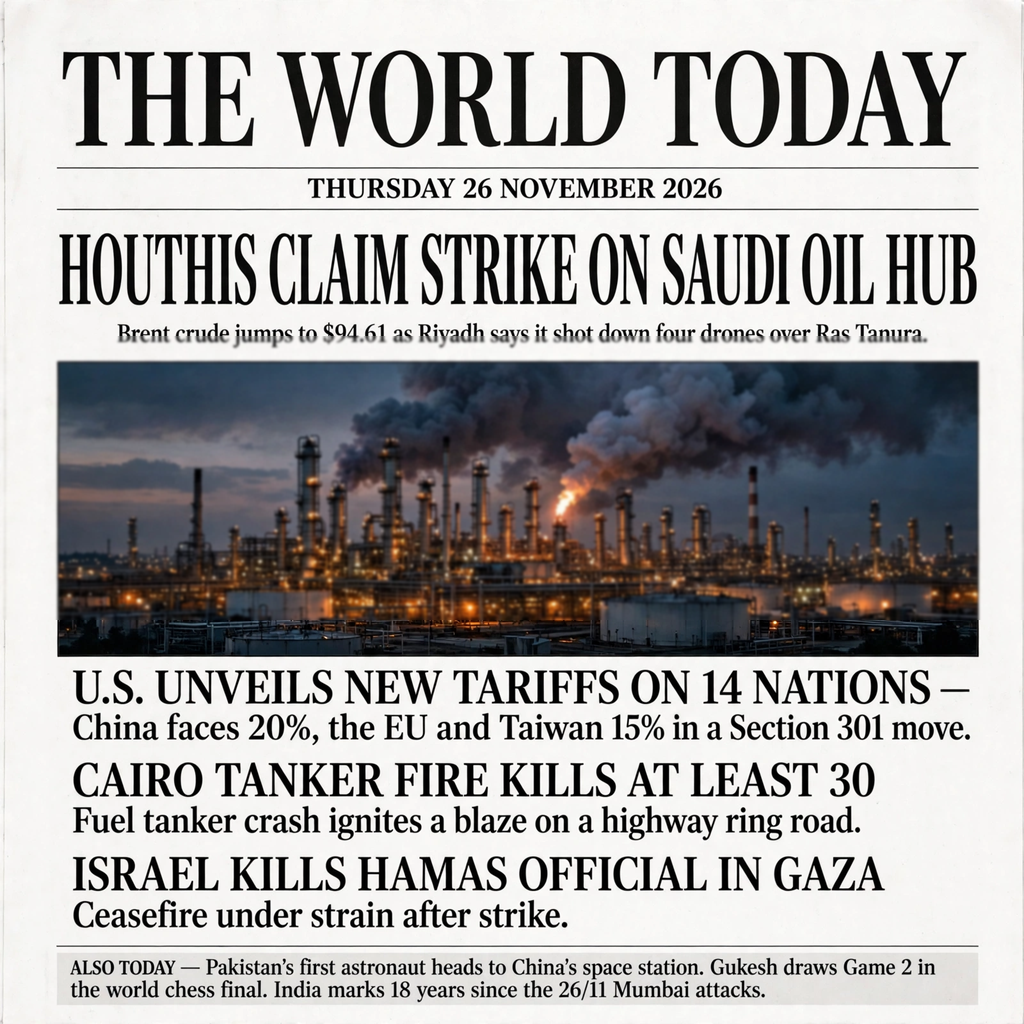
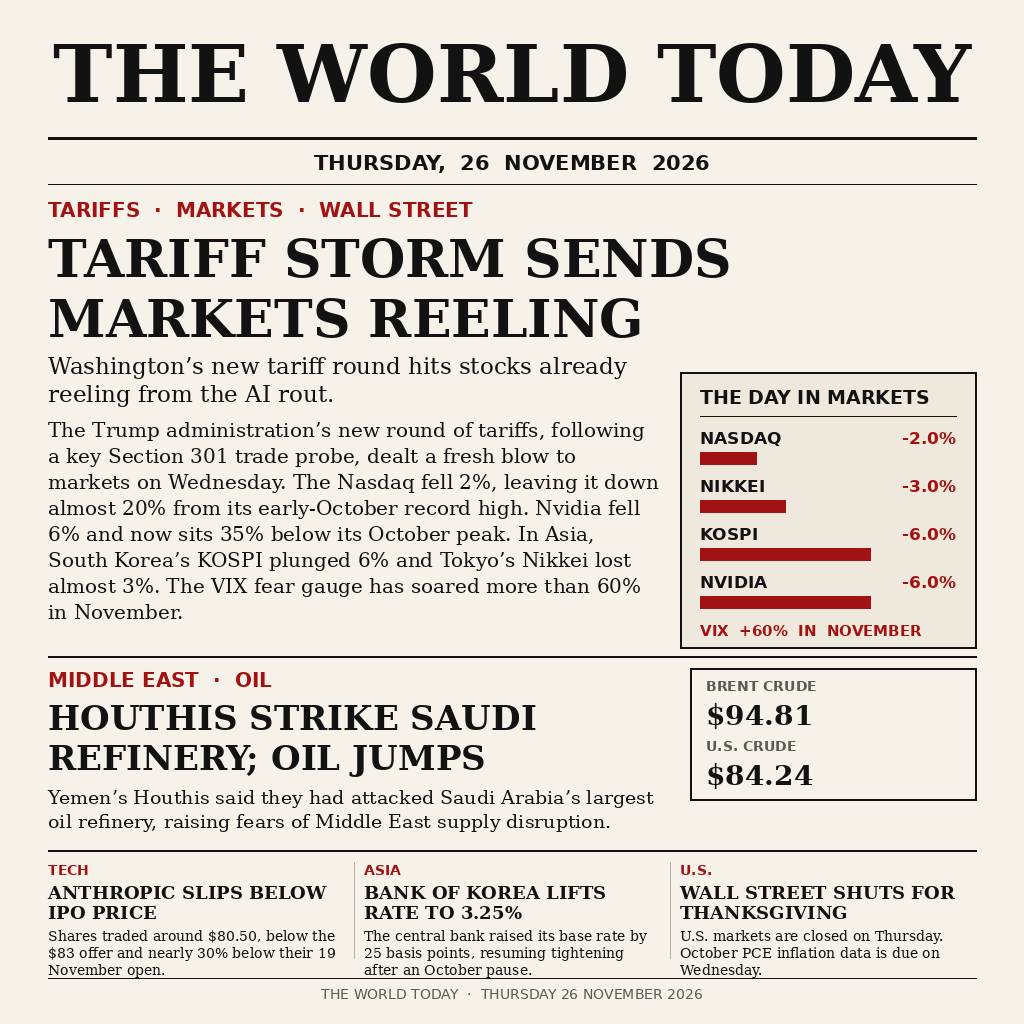
news-image-20261126 v2: The World Today — data-led front page (tariff storm lead)

diff --git a/main.ts b/main.ts
@@ -1,24 +1,35 @@
-// Front page for Thursday 26 November 2026. The finished PNG sits beside this
-// file in the repository, and this program places a byte-identical copy at the
-// grading output path. Nothing is drawn or fetched while it runs: the picture
-// was composed during the build, so grading needs no network at all.
-// Both grading runs write identical bytes because the bundled picture never changes.
+// News-image entry for 26 November 2026, version 2 — a data-led front page.
+// The lead is the tariff storm battering world markets, with a drawn chart of
+// the day's drops; below it, the Houthi strike on the Saudi refinery and the
+// oil price box, then three small stories at the foot. The finished PNG lives
+// next to this file; running this program puts an exact copy of it at the
+// grading output path. The picture is drawn once during the build, so grading
+// performs no drawing and no network access. Two runs write identical bytes
+// because the source picture never changes.
 
-import { mkdirSync, readdirSync, readFileSync, rmSync, statSync, writeFileSync } from "node:fs";
-import { dirname, resolve } from "node:path";
-import { fileURLToPath } from "node:url";
+import { copyFileSync, mkdirSync, readdirSync, rmSync, statSync } from "node:fs";
+import { join } from "node:path";
+import { fileURLToPath } from 'node:url';
 
-const folderOfThisFile = dirname(fileURLToPath(import.meta.url));
-const bundledPicture = resolve(folderOfThisFile, "entry.png");
-const destinationFolder = process.env.MAKEFUN_OUTPUT_DIR || "/output";
+const entryDir = fileURLToPath(new URL(".", import.meta.url));
+const picturePath = join(entryDir, "entry.png");
+const outDir = process.env.MAKEFUN_OUTPUT_DIR ?? "/output";
 
-mkdirSync(destinationFolder, { recursive: true });
-for (const item of readdirSync(destinationFolder)) {
-  const candidatePath = resolve(destinationFolder, item);
-  if (statSync(candidatePath).isFile()) {
-    rmSync(candidatePath);
-  }
+// Clear yesterday's leftovers one entry at a time. The output folder itself
+// belongs to the platform, so it is never removed — only its contents are.
+mkdirSync(outDir, { recursive: true });
+for (const name of readdirSync(outDir)) {
+  rmSync(join(outDir, name), { recursive: true, force: true });
 }
 
-const pictureBytes = readFileSync(bundledPicture);
-writeFileSync(resolve(destinationFolder, "entry.png"), pictureBytes);
+copyFileSync(picturePath, join(outDir, "entry.png"));
+
+// Read-back guard: the copy must match the bundled picture byte for byte
+// in size, otherwise the hand-in is corrupt and the run must fail loudly.
+const copied = statSync(join(outDir, "entry.png")).size;
+const original = statSync(picturePath).size;
+if (copied !== original) {
+  throw new Error(
+    `entry.png copy is corrupt: ${copied} bytes written, ${original} expected`,
+  );
+}

diff --git a/README.md b/README.md
@@ -4,7 +4,7 @@
 [![rank](https://make.fun/badge/news-image-20261126/0xfari/news-image-20261126/rank.svg)](https://make.fun/bounty/news-image-20261126/leaderboard?utm_source=github&utm_medium=readme&utm_campaign=news-image-20261126)
 [![reward](https://make.fun/badge/news-image-20261126/0xfari/news-image-20261126/reward.svg)](https://make.fun/bounty/news-image-20261126?utm_source=github&utm_medium=readme&utm_campaign=news-image-20261126)
 
-The world in one day: a newspaper front page sums up Thursday 26 November 2026 in six stories. The lead: the Houthis claim a strike on Saudi Arabia's Ras Tanura oil refinery as Brent crude jumps to $94.61. Inside: the U.S. unveils new Section 301 tariffs on 14 nations; a fuel tanker fire kills at least 30 in Cairo; Israel kills a Hamas official in Gaza as the ceasefire strains; plus Pakistan's first astronaut heads to China's space station, Gukesh draws Game 2 of the world chess final, and India marks 18 years since the 26/11 Mumbai attacks.
+A data-led newspaper front page for Thursday 26 November 2026. The lead is the tariff storm: Washington's new Section 301 tariff round sends the Nasdaq down 2% toward a bear market, Nvidia 6% lower and 35% off its October peak, with the KOSPI down 6% and the Nikkei down almost 3% — charted in a "Day in Markets" box. Below it, the Houthis' strike on Saudi Arabia's largest refinery lifts Brent to $94.81 and U.S. crude to $84.24. At the foot: Anthropic slips below its IPO price, the Bank of Korea lifts its rate to 3.25%, and Wall Street shuts for Thanksgiving. The page was drawn programmatically from the day's verified Reuters reporting — no photo, no fetched assets, no network at runtime.
 
 ## Run it
 
